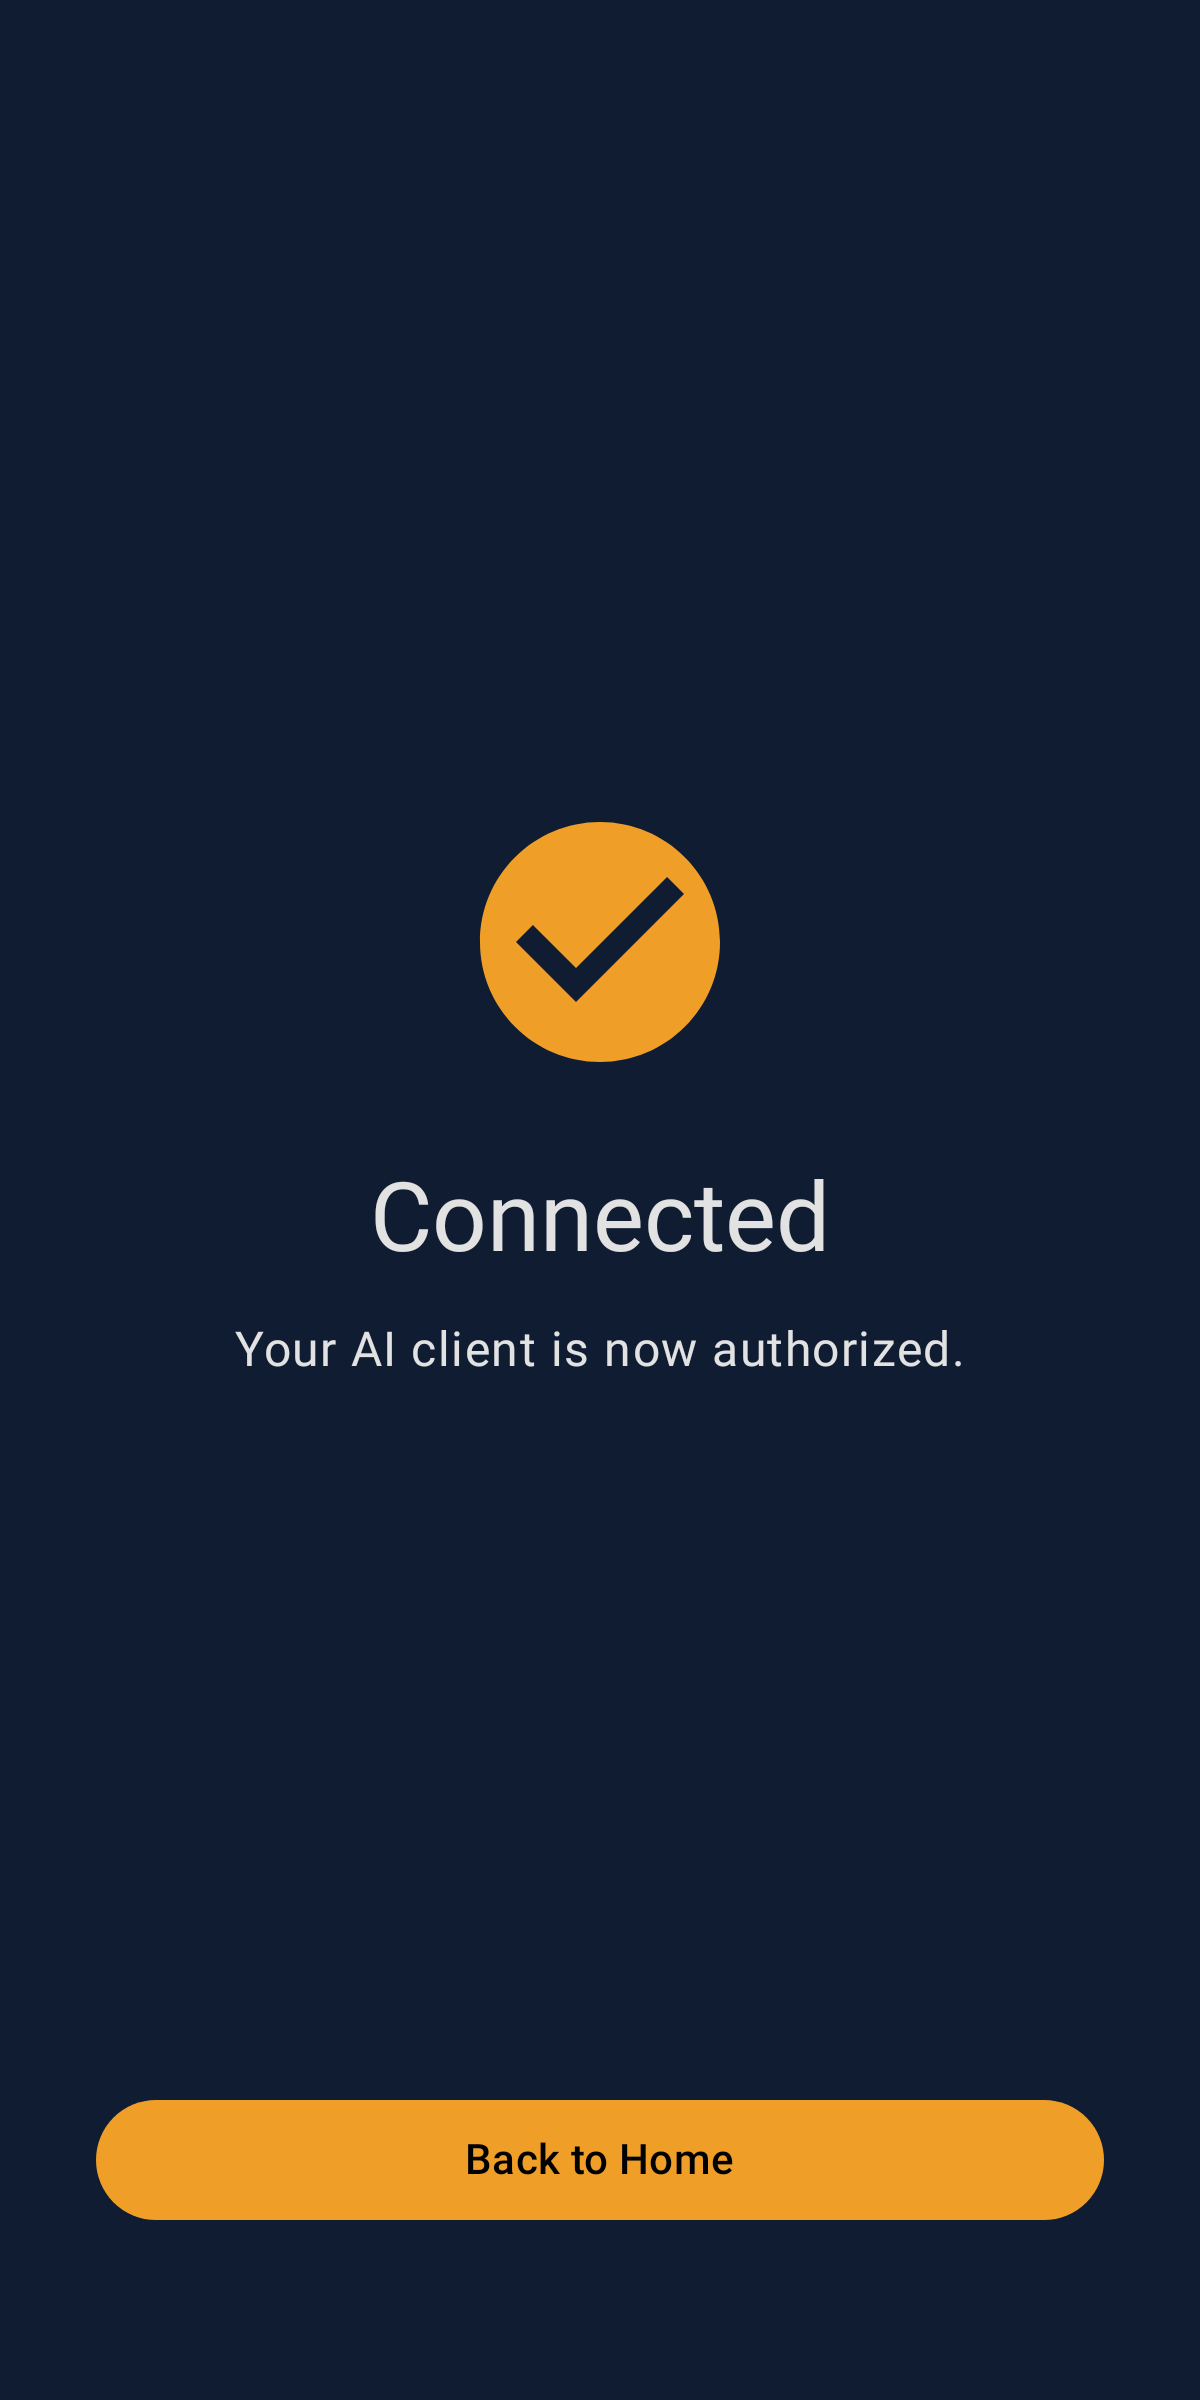
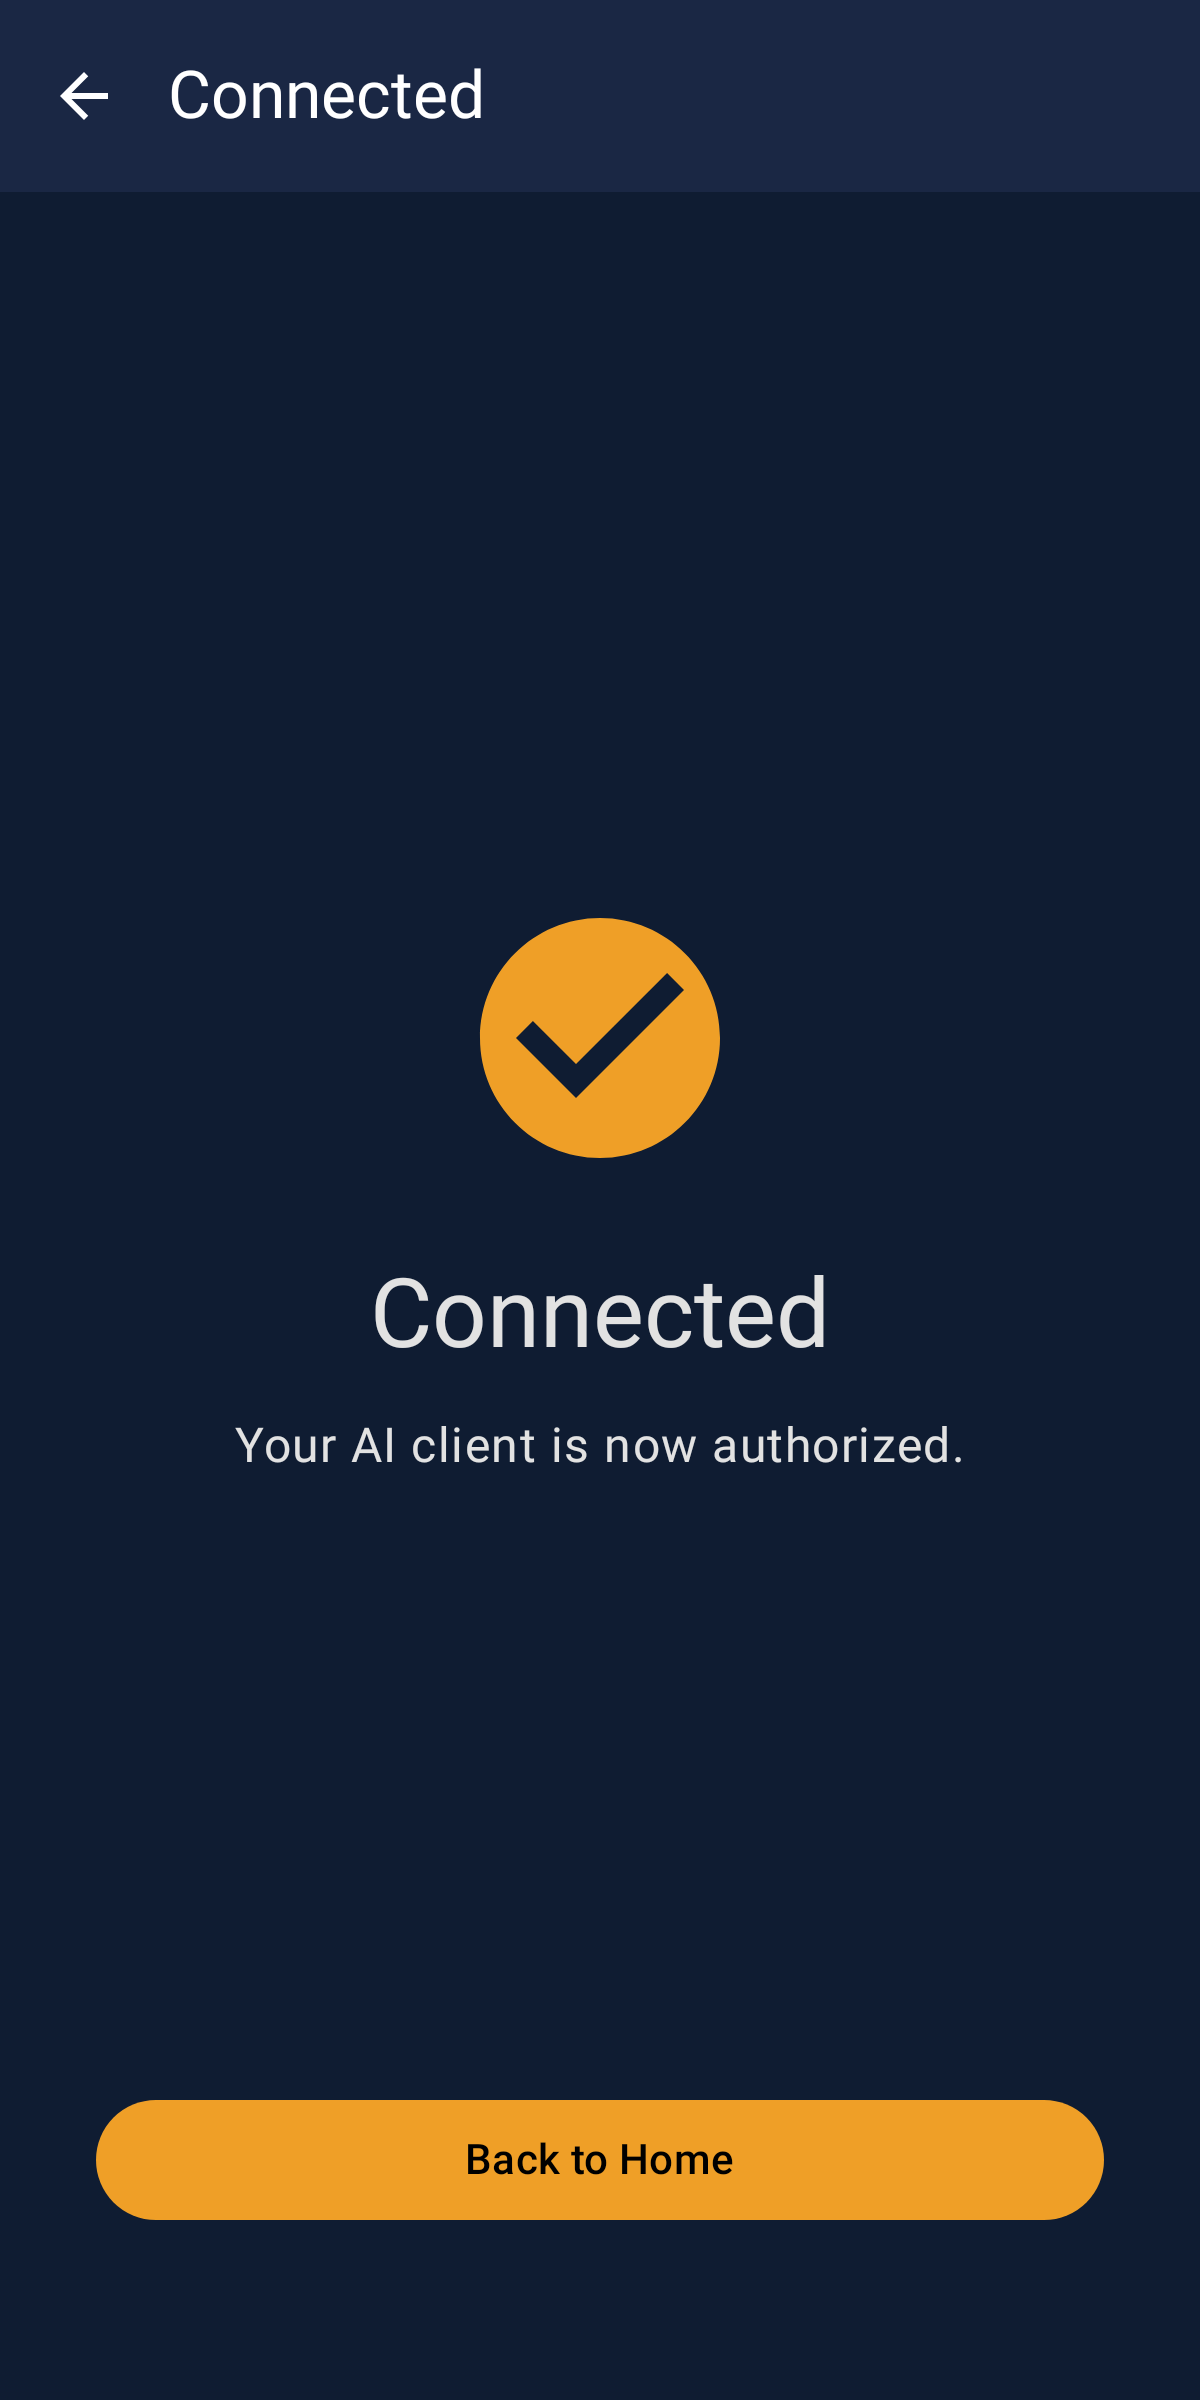
Fix #64: Add back buttons to IntegrationEnabled, ConnectionConfirmed, AuthApproval
Users had no explicit way to navigate back from these screens. Added a
back button to the top bar of each:

- IntegrationEnabledScreen: added navigationIcon to the TopAppBar and an
  onBack callback (also added showBackButton/onBackPressed to the
  ConfigureNavBar call in AppNavigation for the Content variant).
- ConnectionConfirmedScreen: wrapped in Scaffold + TopAppBar with back
  button. Note this screen is not currently referenced from
  AppNavigation; the back button is still added so that if/when it's
  wired up, navigation is consistent. (Orphaned-but-present: keeping
  the fix to avoid future regressions.)
- AuthorizationApprovalScreen: wrapped in Scaffold + TopAppBar with
  back button. The AppNavigation ConfigureNavBar keeps showTopBar =
  false so the screen's own top bar is visible.

Regenerated Roborazzi golden PNGs for the affected screens (light &
dark). Pre-existing detekt baseline issues elsewhere in the repo are
unaffected by this change.

diff --git a/app/src/main/java/com/rousecontext/app/ui/screens/AuthorizationApprovalScreen.kt b/app/src/main/java/com/rousecontext/app/ui/screens/AuthorizationApprovalScreen.kt
@@ -10,13 +10,20 @@ import androidx.compose.foundation.layout.fillMaxSize
 import androidx.compose.foundation.layout.fillMaxWidth
 import androidx.compose.foundation.layout.height
 import androidx.compose.foundation.layout.padding
+import androidx.compose.material.icons.Icons
+import androidx.compose.material.icons.automirrored.filled.ArrowBack
 import androidx.compose.material3.Button
 import androidx.compose.material3.ButtonDefaults
 import androidx.compose.material3.Card
+import androidx.compose.material3.ExperimentalMaterial3Api
+import androidx.compose.material3.Icon
+import androidx.compose.material3.IconButton
 import androidx.compose.material3.MaterialTheme
 import androidx.compose.material3.OutlinedButton
+import androidx.compose.material3.Scaffold
 import androidx.compose.material3.Surface
 import androidx.compose.material3.Text
+import androidx.compose.material3.TopAppBar
 import androidx.compose.runtime.Composable
 import androidx.compose.runtime.Immutable
 import androidx.compose.ui.Alignment
@@ -26,61 +33,81 @@ import androidx.compose.ui.text.font.FontFamily
 import androidx.compose.ui.text.style.TextAlign
 import androidx.compose.ui.tooling.preview.Preview
 import androidx.compose.ui.unit.dp
+import com.rousecontext.app.ui.components.appBarColors
 import com.rousecontext.app.ui.theme.RouseContextTheme
 import com.rousecontext.app.ui.theme.SuccessGreen
 
 @Immutable
 data class AuthorizationApprovalItem(val displayCode: String, val integration: String)
 
+@OptIn(ExperimentalMaterial3Api::class)
 @Composable
 fun AuthorizationApprovalScreen(
     pendingRequests: List<AuthorizationApprovalItem> = emptyList(),
     onApprove: (String) -> Unit = {},
-    onDeny: (String) -> Unit = {}
+    onDeny: (String) -> Unit = {},
+    onBack: () -> Unit = {}
 ) {
-    Surface(modifier = Modifier.fillMaxSize()) {
-        if (pendingRequests.isEmpty()) {
-            Column(
-                modifier = Modifier
-                    .fillMaxSize()
-                    .padding(32.dp),
-                horizontalAlignment = Alignment.CenterHorizontally,
-                verticalArrangement = Arrangement.Center
-            ) {
-                Text(
-                    text = "No Pending Requests",
-                    style = MaterialTheme.typography.headlineMedium
-                )
-                Spacer(modifier = Modifier.height(16.dp))
-                Text(
-                    text = "Authorization requests from AI clients will appear here.",
-                    style = MaterialTheme.typography.bodyLarge,
-                    textAlign = TextAlign.Center,
-                    color = MaterialTheme.colorScheme.onSurfaceVariant
-                )
-            }
-        } else {
-            val request = pendingRequests.first()
-            Column(
-                modifier = Modifier
-                    .fillMaxSize()
-                    .padding(32.dp),
-                horizontalAlignment = Alignment.CenterHorizontally,
-                verticalArrangement = Arrangement.Center
-            ) {
-                if (pendingRequests.size > 1) {
+    Scaffold(
+        topBar = {
+            TopAppBar(
+                title = { Text("Approve Connection") },
+                colors = appBarColors(),
+                navigationIcon = {
+                    IconButton(onClick = onBack) {
+                        Icon(
+                            Icons.AutoMirrored.Filled.ArrowBack,
+                            contentDescription = "Back"
+                        )
+                    }
+                }
+            )
+        }
+    ) { padding ->
+        Surface(modifier = Modifier.fillMaxSize().padding(padding)) {
+            if (pendingRequests.isEmpty()) {
+                Column(
+                    modifier = Modifier
+                        .fillMaxSize()
+                        .padding(32.dp),
+                    horizontalAlignment = Alignment.CenterHorizontally,
+                    verticalArrangement = Arrangement.Center
+                ) {
                     Text(
-                        text = "1 of ${pendingRequests.size}",
-                        style = MaterialTheme.typography.labelMedium,
-                        color = MaterialTheme.colorScheme.onSurfaceVariant
+                        text = "No Pending Requests",
+                        style = MaterialTheme.typography.headlineMedium
                     )
                     Spacer(modifier = Modifier.height(16.dp))
+                    Text(
+                        text = "Authorization requests from AI clients will appear here.",
+                        style = MaterialTheme.typography.bodyLarge,
+                        textAlign = TextAlign.Center,
+                        color = MaterialTheme.colorScheme.onSurfaceVariant
+                    )
                 }
-                AuthorizationRequestCard(
-                    request = request,
-                    onApprove = onApprove,
-                    onDeny = onDeny
-                )
+            } else {
+                val request = pendingRequests.first()
+                Column(
+                    modifier = Modifier
+                        .fillMaxSize()
+                        .padding(32.dp),
+                    horizontalAlignment = Alignment.CenterHorizontally,
+                    verticalArrangement = Arrangement.Center
+                ) {
+                    if (pendingRequests.size > 1) {
+                        Text(
+                            text = "1 of ${pendingRequests.size}",
+                            style = MaterialTheme.typography.labelMedium,
+                            color = MaterialTheme.colorScheme.onSurfaceVariant
+                        )
+                        Spacer(modifier = Modifier.height(16.dp))
+                    }
+                    AuthorizationRequestCard(
+                        request = request,
+                        onApprove = onApprove,
+                        onDeny = onDeny
+                    )
+                }
             }
         }
     }

diff --git a/app/src/main/java/com/rousecontext/app/ui/screens/ConnectionConfirmedScreen.kt b/app/src/main/java/com/rousecontext/app/ui/screens/ConnectionConfirmedScreen.kt
@@ -8,61 +8,85 @@ import androidx.compose.foundation.layout.height
 import androidx.compose.foundation.layout.padding
 import androidx.compose.foundation.layout.size
 import androidx.compose.material.icons.Icons
+import androidx.compose.material.icons.automirrored.filled.ArrowBack
 import androidx.compose.material.icons.filled.CheckCircle
 import androidx.compose.material3.Button
+import androidx.compose.material3.ExperimentalMaterial3Api
 import androidx.compose.material3.Icon
+import androidx.compose.material3.IconButton
 import androidx.compose.material3.MaterialTheme
+import androidx.compose.material3.Scaffold
 import androidx.compose.material3.Surface
 import androidx.compose.material3.Text
+import androidx.compose.material3.TopAppBar
 import androidx.compose.runtime.Composable
 import androidx.compose.ui.Alignment
 import androidx.compose.ui.Modifier
 import androidx.compose.ui.tooling.preview.Preview
 import androidx.compose.ui.unit.dp
+import com.rousecontext.app.ui.components.appBarColors
 import com.rousecontext.app.ui.theme.RouseContextTheme
 
+@OptIn(ExperimentalMaterial3Api::class)
 @Composable
-fun ConnectionConfirmedScreen(onBackToHome: () -> Unit = {}) {
-    Surface(modifier = Modifier.fillMaxSize()) {
-        Column(
-            modifier = Modifier
-                .fillMaxSize()
-                .padding(32.dp),
-            horizontalAlignment = Alignment.CenterHorizontally
-        ) {
-            Spacer(modifier = Modifier.weight(1f))
-
-            Icon(
-                imageVector = Icons.Default.CheckCircle,
-                contentDescription = "Connected",
-                modifier = Modifier.size(96.dp),
-                tint = MaterialTheme.colorScheme.primary
+fun ConnectionConfirmedScreen(onBackToHome: () -> Unit = {}, onBack: () -> Unit = {}) {
+    Scaffold(
+        topBar = {
+            TopAppBar(
+                title = { Text("Connected") },
+                colors = appBarColors(),
+                navigationIcon = {
+                    IconButton(onClick = onBack) {
+                        Icon(
+                            Icons.AutoMirrored.Filled.ArrowBack,
+                            contentDescription = "Back"
+                        )
+                    }
+                }
             )
-
-            Spacer(modifier = Modifier.height(24.dp))
-
-            Text(
-                text = "Connected",
-                style = MaterialTheme.typography.headlineLarge
-            )
-
-            Spacer(modifier = Modifier.height(12.dp))
-
-            Text(
-                text = "Your AI client is now authorized.",
-                style = MaterialTheme.typography.bodyLarge
-            )
-
-            Spacer(modifier = Modifier.weight(1f))
-
-            Button(
-                onClick = onBackToHome,
-                modifier = Modifier.fillMaxWidth()
+        }
+    ) { padding ->
+        Surface(modifier = Modifier.fillMaxSize().padding(padding)) {
+            Column(
+                modifier = Modifier
+                    .fillMaxSize()
+                    .padding(32.dp),
+                horizontalAlignment = Alignment.CenterHorizontally
             ) {
-                Text("Back to Home")
-            }
+                Spacer(modifier = Modifier.weight(1f))
 
-            Spacer(modifier = Modifier.height(24.dp))
+                Icon(
+                    imageVector = Icons.Default.CheckCircle,
+                    contentDescription = "Connected",
+                    modifier = Modifier.size(96.dp),
+                    tint = MaterialTheme.colorScheme.primary
+                )
+
+                Spacer(modifier = Modifier.height(24.dp))
+
+                Text(
+                    text = "Connected",
+                    style = MaterialTheme.typography.headlineLarge
+                )
+
+                Spacer(modifier = Modifier.height(12.dp))
+
+                Text(
+                    text = "Your AI client is now authorized.",
+                    style = MaterialTheme.typography.bodyLarge
+                )
+
+                Spacer(modifier = Modifier.weight(1f))
+
+                Button(
+                    onClick = onBackToHome,
+                    modifier = Modifier.fillMaxWidth()
+                ) {
+                    Text("Back to Home")
+                }
+
+                Spacer(modifier = Modifier.height(24.dp))
+            }
         }
     }
 }

diff --git a/app/src/main/java/com/rousecontext/app/ui/screens/IntegrationEnabledScreen.kt b/app/src/main/java/com/rousecontext/app/ui/screens/IntegrationEnabledScreen.kt
@@ -11,6 +11,7 @@ import androidx.compose.foundation.layout.padding
 import androidx.compose.foundation.layout.size
 import androidx.compose.foundation.layout.width
 import androidx.compose.material.icons.Icons
+import androidx.compose.material.icons.automirrored.filled.ArrowBack
 import androidx.compose.material.icons.filled.CheckCircle
 import androidx.compose.material.icons.filled.ContentCopy
 import androidx.compose.material3.Card
@@ -65,11 +66,23 @@ fun IntegrationEnabledContent(
 fun IntegrationEnabledScreen(
     state: IntegrationEnabledState = IntegrationEnabledState(),
     onCopyUrl: () -> Unit = {},
-    onCancel: () -> Unit = {}
+    onCancel: () -> Unit = {},
+    onBack: () -> Unit = {}
 ) {
     Scaffold(
         topBar = {
-            TopAppBar(title = { Text("${state.integrationName} Ready") }, colors = appBarColors())
+            TopAppBar(
+                title = { Text("${state.integrationName} Ready") },
+                colors = appBarColors(),
+                navigationIcon = {
+                    IconButton(onClick = onBack) {
+                        Icon(
+                            Icons.AutoMirrored.Filled.ArrowBack,
+                            contentDescription = "Back"
+                        )
+                    }
+                }
+            )
         }
     ) { padding ->
         IntegrationEnabledBody(

diff --git a/app/src/main/java/com/rousecontext/app/ui/navigation/AppNavigation.kt b/app/src/main/java/com/rousecontext/app/ui/navigation/AppNavigation.kt
@@ -1115,7 +1115,9 @@ fun AppNavigation(
                     val integrationName = integration?.displayName
                         ?: integrationId
                     ConfigureNavBar(
-                        title = "$integrationName Ready"
+                        title = "$integrationName Ready",
+                        showBackButton = true,
+                        onBackPressed = { navController.popBackStack() }
                     )
 
                     // Auto-navigate to approval when a client auth request arrives
@@ -1205,7 +1207,8 @@ fun AppNavigation(
                             }
                             viewModel.approve(displayCode)
                         },
-                        onDeny = viewModel::deny
+                        onDeny = viewModel::deny,
+                        onBack = { navController.popBackStack() }
                     )
                 }
 
